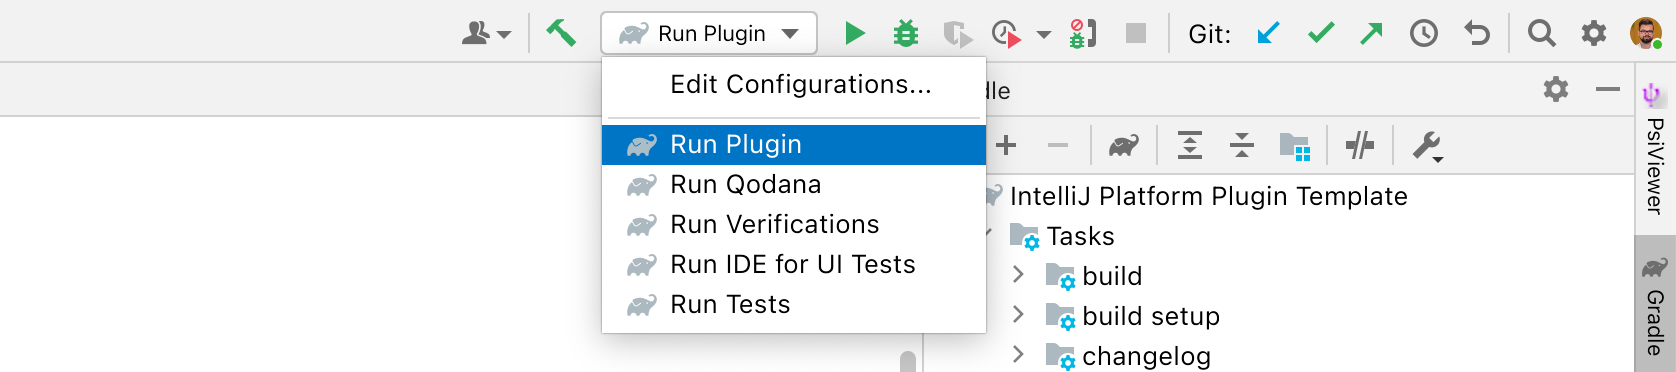
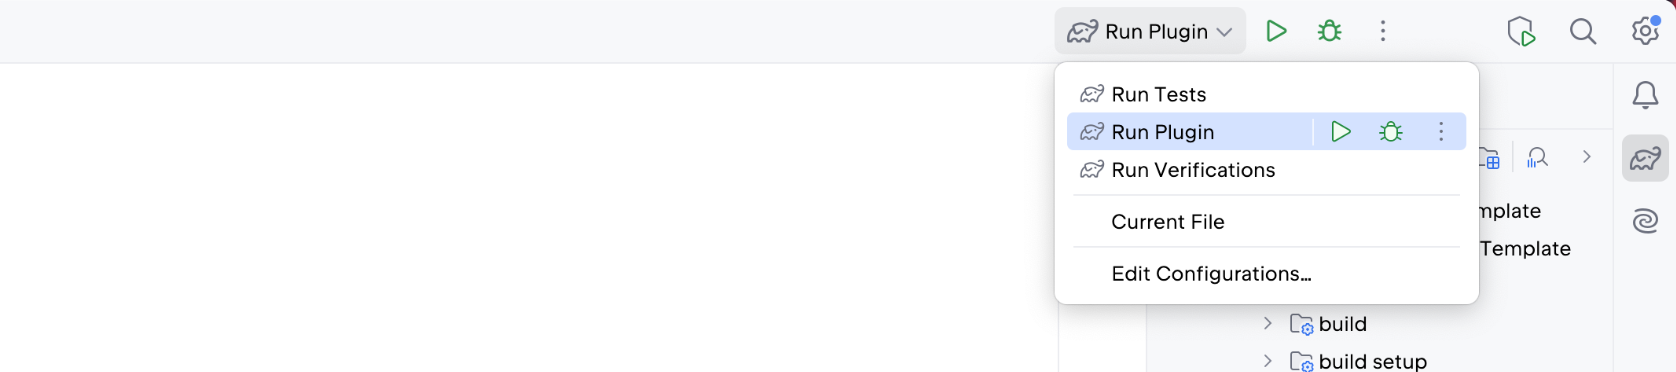
README: update screenshots

diff --git a/README.md b/README.md
@@ -133,7 +133,7 @@ In addition, extra behaviors are configured through the [`gradle.properties`][fi
 
 Some values used for the Gradle configuration shouldn't be stored in files to avoid publishing them to the Version Control System.
 
-To avoid that, environment variables are introduced, which can be provided within the *Run/Debug Configuration* within the IDE, or on the CI – like for GitHub: `⚙ Settings > Secrets`.
+To avoid that, environment variables are introduced, which can be provided within the *Run/Debug Configuration* within the IDE, or on the CI – like for GitHub: `⚙ Settings > Secrets and variables > Actions`.
 
 Environment variables used by the current project are related to the [plugin signing](#plugin-signing) and [publishing](#publishing-the-plugin).
 
@@ -146,7 +146,7 @@ Environment variables used by the current project are related to the [plugin sig
 
 For more details on how to generate proper values, check the relevant sections mentioned above.
 
-To configure GitHub secret environment variables, go to the `⚙ Settings > Secrets` section of your project repository:
+To configure GitHub secret environment variables, go to the `⚙ Settings > Secrets and variables > Actions` section of your project repository:
 
 ![Settings > Secrets][file:settings-secrets.png]
 
@@ -498,7 +498,7 @@ In addition, the [Release](.github/workflows/release.yml) workflow automates thi
 > [!NOTE]
 > Set a suffix to the plugin version to publish it in the custom repository channel, i.e. `v1.0.0-beta` will push your plugin to the `beta` [release channel][docs:release-channel].
 
-The authorization process relies on the `PUBLISH_TOKEN` secret environment variable, specified in the _Secrets_ section of the repository _Settings_.
+The authorization process relies on the `PUBLISH_TOKEN` secret environment variable, specified in the `⚙ Settings > Secrets and variables > Actions` section of your project repository.
 
 You can get that token in your JetBrains Marketplace profile dashboard in the [My Tokens][jb:my-tokens] tab.
 

diff --git a/CHANGELOG.md b/CHANGELOG.md
@@ -9,6 +9,10 @@
 - Upgrade Gradle Wrapper to `8.10`
 - Dependencies (GitHub Actions) - upgrade `gradle/actions/setup-gradle` to `v4`
 
+### Removed
+
+- Removed _Run Qodana_ and _Run UI for UI Tests_ run configurations
+
 ## [2.0.1] - 2024-08-09
 
 ### Changed
